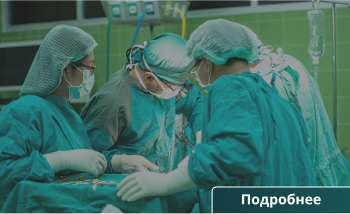
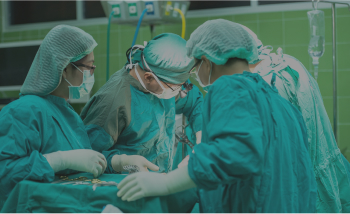
add programm item link hover effect

Changed region(s): [[0.6, 0.8692, 1.0, 1.0]]

diff --git a/app/index.html b/app/index.html
@@ -196,30 +196,35 @@
 							<a href="#"><img src="img/programm/1.jpg" alt="Для высшего медицинского персонала, для врачей"></a>
 						</div>
 						<h3 class="programm__name">Для высшего медицинского персонала, для врачей</h3>
+						<a href="#" class="programm__link">Подробнее</a>
 					</div>
 					<div class="programm__item">
 						<div class="programm__img">
 							<a href="#"><img src="img/programm/2.jpg" alt="Для среднего медицинского персонала"></a>
 						</div>
 						<h3 class="programm__name">Для среднего медицинского персонала</h3>
+						<a href="#" class="programm__link">Подробнее</a>
 					</div>
 					<div class="programm__item">
 						<div class="programm__img">
 							<a href="#"><img src="img/programm/3.jpg" alt="Для младшего медицинского персонала"></a>
 						</div>
 						<h3 class="programm__name">Для младшего медицинского персонала</h3>
+						<a href="#" class="programm__link">Подробнее</a>
 					</div>
 					<div class="programm__item">
 						<div class="programm__img">
 							<a href="#"><img src="img/programm/4.jpg" alt="Для населения"></a>
 						</div>
 						<h3 class="programm__name">Для населения</h3>
+						<a href="#" class="programm__link">Подробнее</a>
 					</div>
 					<div class="programm__item">
 						<div class="programm__img">
 							<a href="#"><img src="img/programm/5.jpg" alt="Для преподавателей"></a>
 						</div>
 						<h3 class="programm__name">Для преподавателей</h3>
+						<a href="#" class="programm__link">Подробнее</a>
 					</div>
 				</div>
 			</div>

diff --git a/app/sass/_programm.sass b/app/sass/_programm.sass
@@ -13,6 +13,7 @@
 		margin-right: 30px
 		margin-bottom: 56px
 		cursor: pointer
+		position: relative
 		
 		&:nth-child(odd)
 			margin-right: 0
@@ -30,6 +31,27 @@
 		transform: translateY(-50%)
 		color: #fff
 		width: 100%
+
+	&__link
+		position: absolute
+		right: 0
+		bottom: 0px
+		width: 140px
+		height: 27px
+		background: linear-gradient(270deg, #1A5455 0%, #143D42 100%)
+		border: 1px solid #fff
+		box-sizing: border-box
+		border-radius: 5px 0px 0px 0px
+		color: #fff
+		font-size: 14px
+		text-align: center
+		font-weight: 600
+		transition: all .3s ease
+
+		&:hover
+			background: linear-gradient(270deg, #019875 0%, #019875 100%)
+			transition: all .3s ease
+
 
 /* partners */
 .partners
